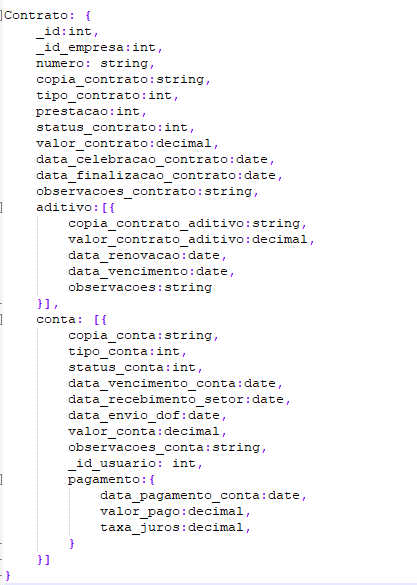
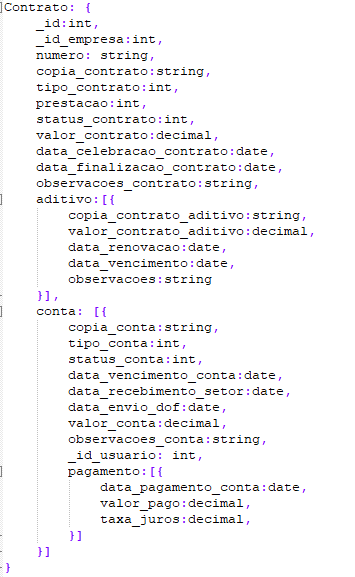
Refatoração dos dados e consultas

diff --git a/docs/Esquema Não Relacional/buscas.js b/docs/Esquema Não Relacional/buscas.js
@@ -114,29 +114,30 @@ db.contrato.aggregate([
 	{ 
 		$unwind: "$conta"
 	},
-	{
+        { 
+		$unwind: "$conta.pagamento"
+	},
+        {
 		$project: {
-			tipo_pago: 1,
-			valor_pago: 1,
+			"conta.pagamento.tipo_conta": 1,
+			"conta.pagamento.valor_pago": 1,
 			ano_atual: { $year: new Date() },
-			mes_conta: { $month: "$pagamento.data_pagamento_conta" },
-			ano_conta: { $year: "$pagamento.data_pagamento_conta" }
+			mes_conta: { $month: "$conta.pagamento.data_pagamento_conta" },
+			ano_conta: { $year: "$conta.pagamento.data_pagamento_conta" }
 		}
 	},
-	{
-		$match: {
-			$eq:["$ano_conta", "$ano_atual"]
-		}
-	},
+        {$project: {"conta.pagamento.tipo_pago": 1, "conta.pagamento.valor_pago": 1, mes_conta: 1, ab: {$cmp: ['$ano_conta','$ano_atual']}}},
+        {$match: {ab:{$eq:0}}},
 	{
 		$group:{
-			_id: {tipo_conta: "$tipo_conta", mes: "$mes_conta"}, 
-			total:{$sum: "$valor_pago"}
+			_id: {tipo_conta: "$conta.pagamento.tipo_conta", mes: "$mes_conta"}, 
+			total:{$sum: "$conta.pagamento.valor_pago"}
 		}
 	}
 ]);
 
 //8 Buscar percentual de contas que foram pagas em atraso nos últimos doze meses;
+
 
 //9 Qual o total pago em aditivos no último ano
 db.contrato.aggregate([
@@ -145,20 +146,17 @@ db.contrato.aggregate([
 	},
 	{
 		$project: {
-			valor_contrato_aditivo: 1,
+			"aditivo.valor_contrato_aditivo": 1,
 			ano_atual: { $year: new Date() },
-			ano_aditivo: { $year: "$data_renovacao" }
+			ano_aditivo: { $year: "$aditivo.data_renovacao" }
 		}
 	},
-	{
-		$match: {
-			$eq:["$ano_conta", "$ano_atual"]
-		}
-	},
+        {$project: {"aditivo.valor_contrato_aditivo": 1, ab: {$cmp: ['$ano_aditivo','$ano_atual']}}},
+        {$match: {ab:{$eq:0}}},
 	{
 		$group:{
-			_id: null, 
-			total:{$sum: "$valor_contrato_aditivo"}
+			_id: "$ab", 
+			total:{$sum: "$aditivo.valor_contrato_aditivo"}
 		}
 	}
 ]);
@@ -168,11 +166,25 @@ db.contrato.aggregate([
 db.contrato.aggregate([
     { $match: { conta: { "$elemMatch": { pagamento: { "$exists": false } } } } },
     { $project: {
+        _id_empresa: 1,
         conta: { $filter: { 
             input: "$conta", 
             as: "item", 
             cond: { $eq: [ { $type: "$$item.pagamento" }, "missing" ] }
         } },
 		telefone: 1
-    } }
+    }},
+    {
+        $lookup: {
+                from: "empresa",
+                localField: "_id_empresa",
+                foreignField: "_id",
+                as: "empresa"
+        }
+    },
+    {$unwind: "$empresa"},
+    {$project: {
+            "empresa.razao_social": 1
+     }}
+    
 ]);
